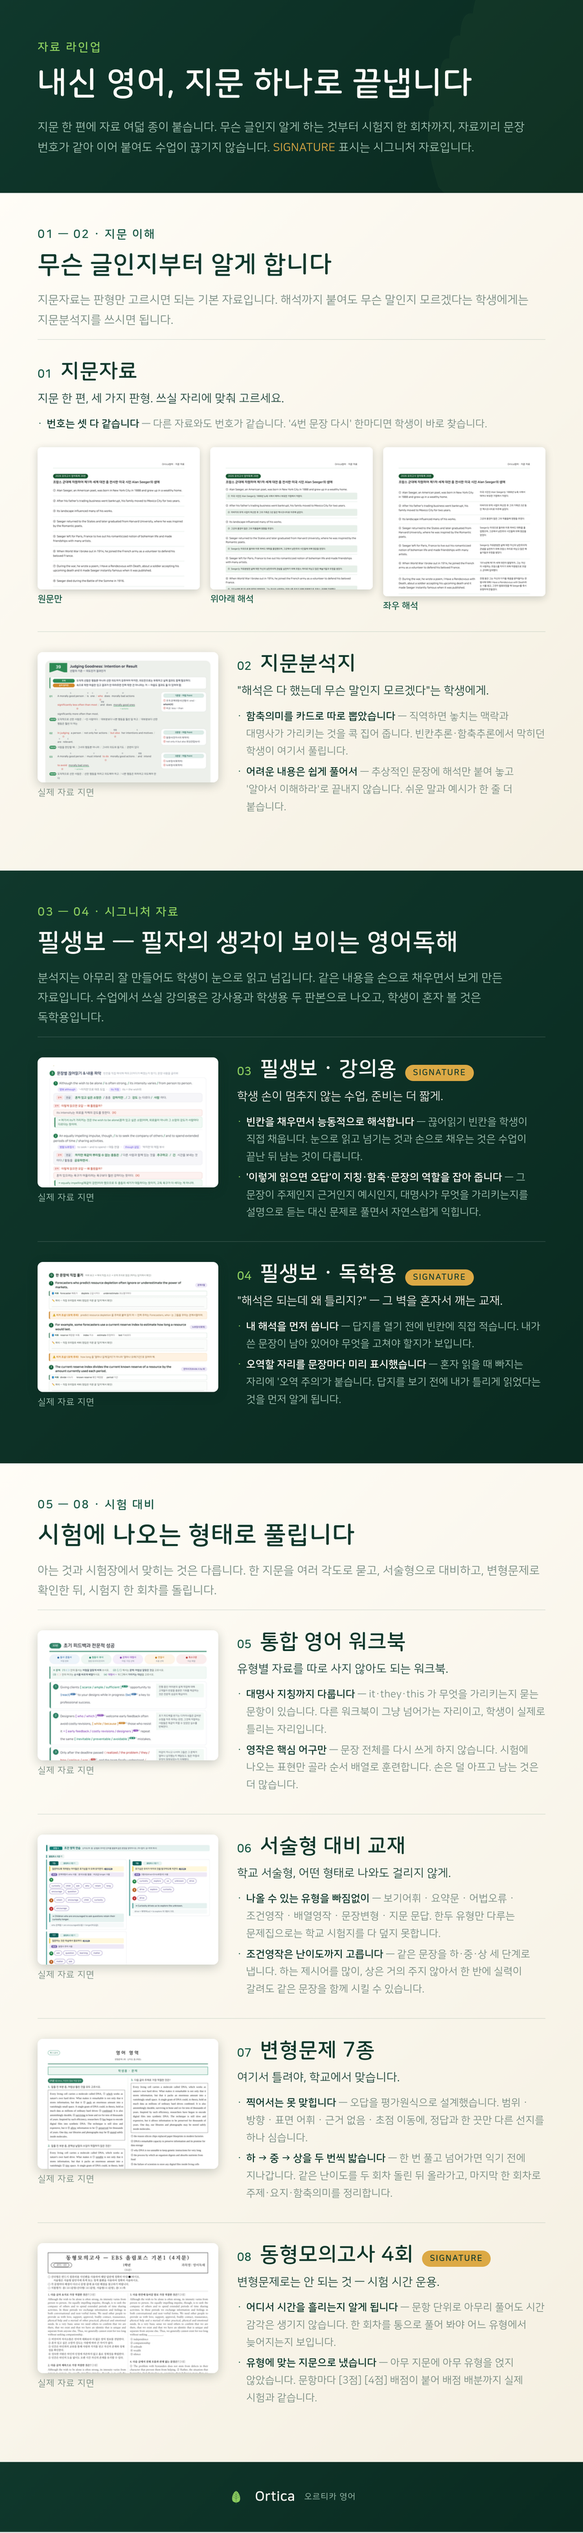
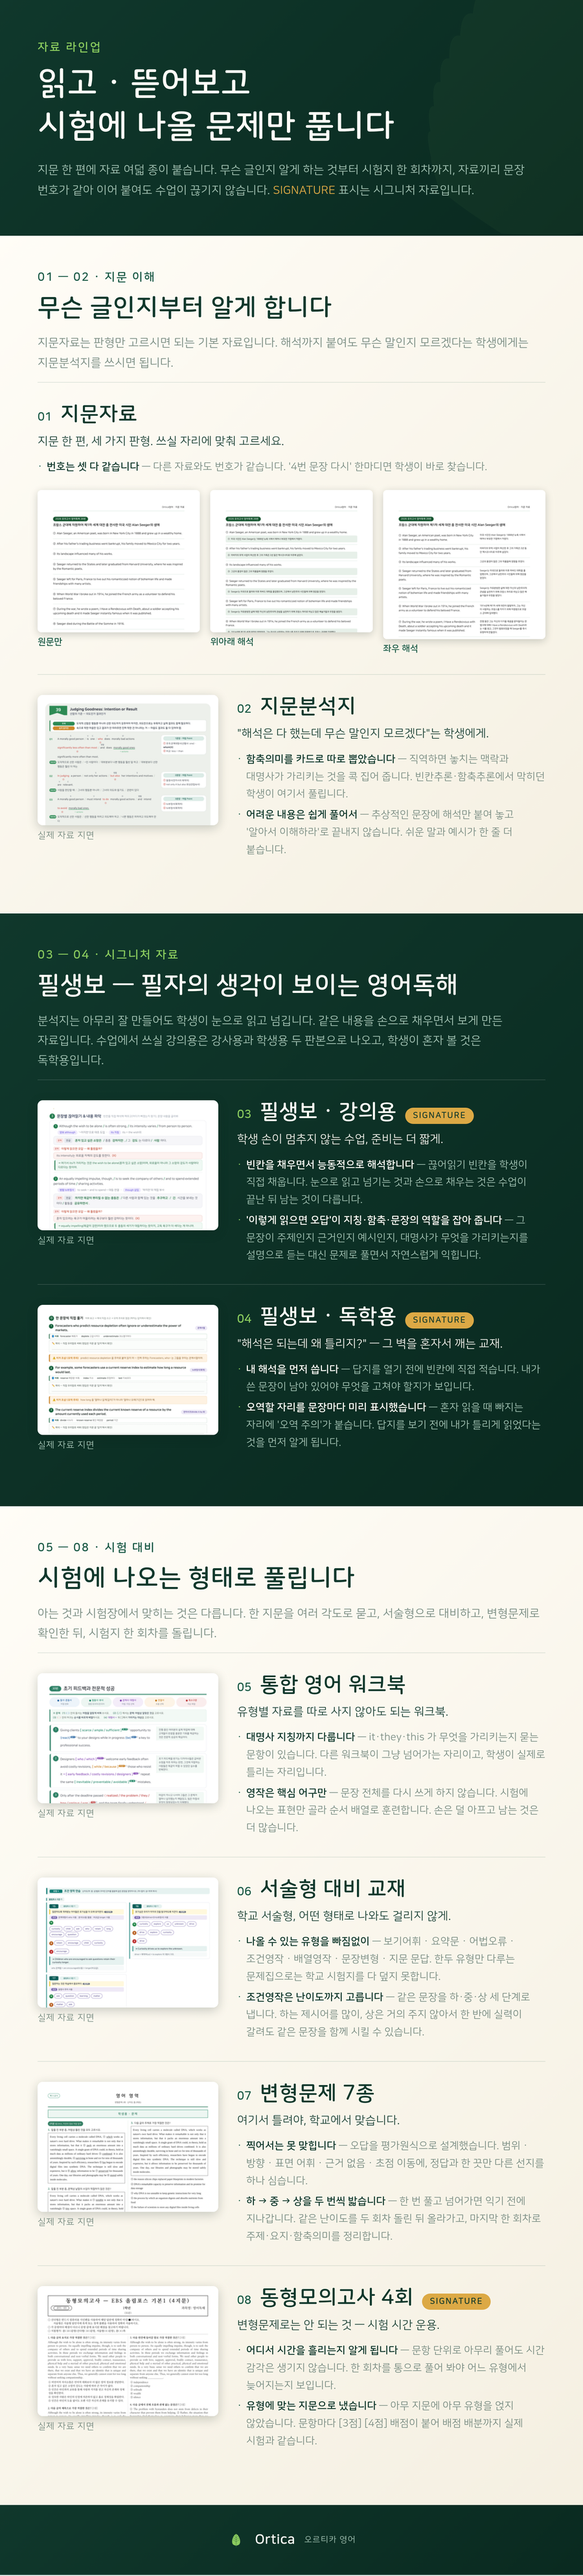
라인업 표제를 '읽고 · 뜯어보고 / 시험에 나올 문제만 풉니다'로
세 번째 마디가 '시험에 나올 문제만'으로 바뀌면서 표제가 곧 판매 문구가 됐다.
양치기를 시키지 않는다는 말이 첫 줄에서 끝난다.

한 줄로 두면 '풉니다'만 다음 줄로 넘어가서, 마디 사이에서 끊어 두 줄로 세운다.

Claude-Session: https://claude.ai/code/session_015BpsJgtaBR6xs1aCKnE4xw

Changed region(s): [[0.0, 0.0, 1.0, 0.9683], [0.0622, 0.8121, 0.3733, 0.937]]

diff --git a/brand/build.py b/brand/build.py
@@ -492,7 +492,7 @@ def build_lineup(width: int = DOC_W, part: int | None = None) -> tuple[str, int]
                  letter-spacing:.12em">자료 라인업</div>
             <div class="ko" style="margin-top:{u * 1.4:.0f}px;font-size:{u * 5.6:.0f}px;
                  color:{head_t['fg']};line-height:1.32;word-break:keep-all">
-              내신 영어, 지문 하나로 끝냅니다</div>
+              읽고 · 뜯어보고<br>시험에 나올 문제만 풉니다</div>
             <div class="sans" style="margin-top:{u * 2.0:.0f}px;font-size:{u * 2.05:.0f}px;
                  color:{head_t['muted']};line-height:1.75;word-break:keep-all">
               지문 한 편에 자료 여덟 종이 붙습니다. 무슨 글인지 알게 하는 것부터
